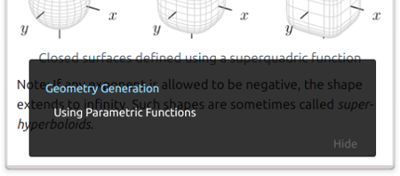
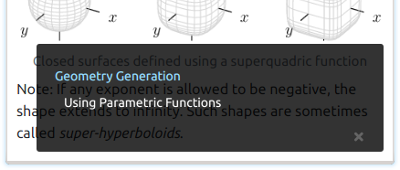
Refactor Navigation pane styling

diff --git a/mdviewer.css b/mdviewer.css
@@ -514,6 +514,22 @@ q:lang(zu) {
 
 /* GUI */
 
+@font-face {
+    font-family: "Font Awesome";
+    font-style: normal;
+    font-weight: 400;
+    font-display: auto;
+    src: url(./webfonts/fa-regular-400.otf) format("opentype");
+}
+
+@font-face {
+    font-family: "Font Awesome";
+    font-style: normal;
+    font-weight: 900;
+    font-display: auto;
+    src: url(./webfonts/fa-solid-900.otf) format("opentype");
+}
+
 @media screen {
 
     #ui-status-bar {
@@ -541,7 +557,7 @@ q:lang(zu) {
         -webkit-user-select: none;
     }
 
-    #ui-status-bar .secondary-text {
+    #ui-status-bar span.secondary-text {
         opacity: 0.6;
     }
 
@@ -635,7 +651,7 @@ q:lang(zu) {
         color: rgb(150, 220, 255) !important;
     }
 
-    #ui-toc a#ui-toc-hide {
+    #ui-toc #ui-toc-hide {
         display: block;
         position: fixed;
         max-width: 50px;
@@ -650,11 +666,18 @@ q:lang(zu) {
         opacity: 0.25 !important;
     }
 
-    #ui-toc a#ui-toc-hide:hover {
+    #ui-toc #ui-toc-hide:hover {
         color: rgba(255, 255, 255, 0.98) !important;
         -webkit-transition: opacity 0.2s;
         transition: opacity 0.2s;
         opacity: 1 !important;
+    }
+
+    #ui-toc span.ui-toc-hide-icon:before {
+        content: "\f00d";
+        font-size: 14px;
+        font-weight: 400;
+        font-family: Font Awesome;
     }
 
 }

diff --git a/mdviewer.js b/mdviewer.js
@@ -72,12 +72,14 @@ function generateTOC() {
 
     });
 
-    var hidetoc = document.createElement("a");
-    hidetoc.id = "ui-toc-hide";
-    hidetoc.textContent = "Hide";
-    hidetoc.title = "Hide Navigation pane";
-    hidetoc.addEventListener ("click", function () { toc.style.display = "none" });
-    toc.appendChild(hidetoc);
+    var hidetoc = document.createElement("span");
+    var hidetocbtn = document.createElement("a");
+    hidetoc.className = "ui-toc-hide-icon";
+    hidetocbtn.appendChild(hidetoc);
+    hidetocbtn.id = "ui-toc-hide";
+    hidetocbtn.title = "Hide Navigation pane";
+    hidetocbtn.addEventListener ("click", function () { toc.style.display = "none" });
+    toc.appendChild(hidetocbtn);
 
     if (typeof(window.MathJax) !== "undefined") {
         MathJax.Hub.Queue(["Typeset", MathJax.Hub, "ui-toc"]);
